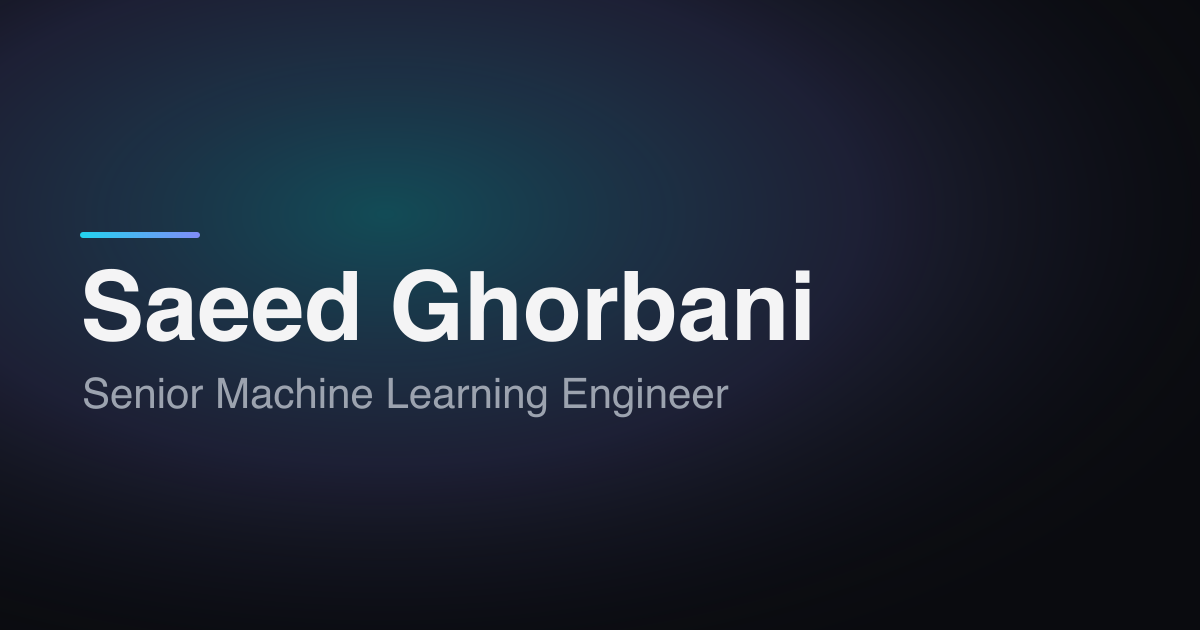
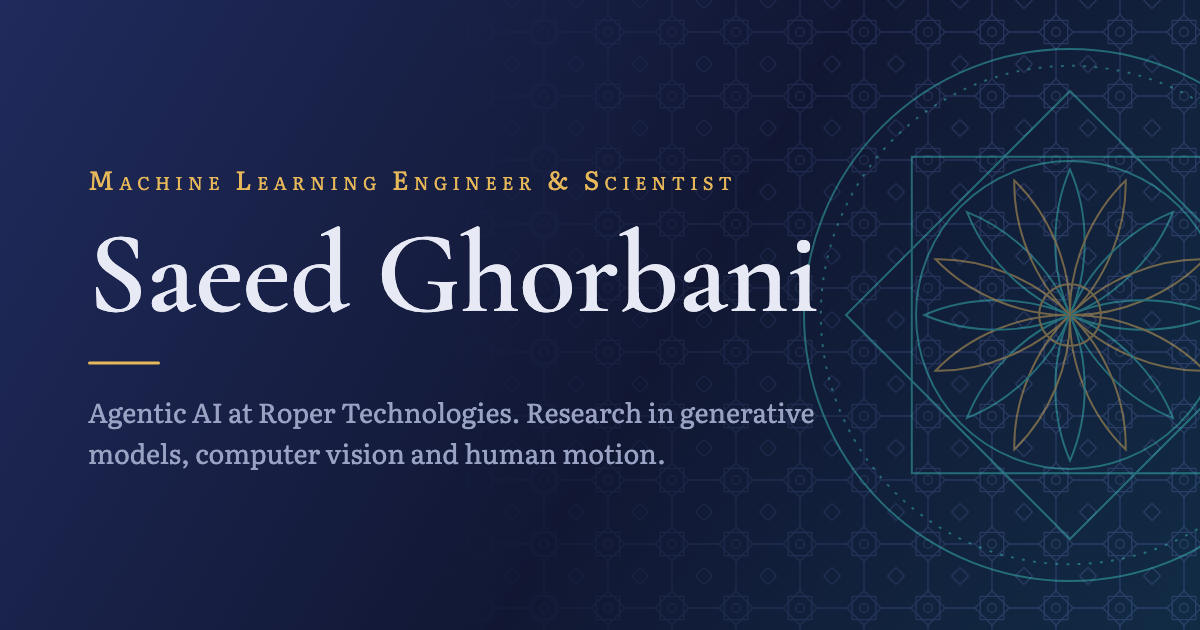
Polish pass: clearer hero, calmer motifs, even cards
- Hero: one-line summary, CV/Scholar/GitHub/Email buttons, shorter
  height, and a single fade-in for the name instead of letter-by-letter
- Use the tile band only in the hero and footer; section headings get a
  thin gold rule; drop the page-wide lattice
- Remove the custom cursor
- About: top-align the bio with the photo to close the empty gap
- Projects: every image in the same 16:10 frame, descriptions clamped,
  "Read more" links aligned to the card bottom
- News: latest five shown, the rest behind "Show all" instead of an
  inner scroll box
- New favicon (khatam star) and share image in the Isfahan look;
  gen-og.mjs renders both with the site's fonts

diff --git a/src/components/ui/modern-background-paths.tsx b/src/components/ui/modern-background-paths.tsx
@@ -73,16 +73,21 @@ function Rosette({ still }: { still: boolean }) {
   )
 }
 
+type HeroLink = { label: string; href: string; primary?: boolean }
+
 export default function EnhancedBackgroundPaths({
   title = "Isfahan",
   eyebrow = "",
+  summary = "",
+  links = [],
 }: {
   title?: string
   eyebrow?: string
+  summary?: string
+  links?: HeroLink[]
 }) {
   const still = useReducedMotion() ?? false
   const [current, setCurrent] = useState(0)
-  const words = title.split(" ")
 
   useEffect(() => {
     if (still) return
@@ -91,7 +96,7 @@ export default function EnhancedBackgroundPaths({
   }, [still])
 
   return (
-    <div className="relative min-h-screen w-full flex items-center justify-center overflow-hidden bg-transparent">
+    <div className="relative min-h-[82svh] w-full flex items-center justify-center overflow-hidden bg-transparent pt-24 pb-16">
       {/* Color wash, then the tile lattice, then the rosette */}
       <div aria-hidden="true" className="absolute inset-0" style={{ background: "var(--wash)" }} />
       {PATTERNS.map((p, i) => (
@@ -107,7 +112,7 @@ export default function EnhancedBackgroundPaths({
       <div
         aria-hidden="true"
         className="absolute inset-0"
-        style={{ background: "radial-gradient(ellipse 38% 22% at center, var(--bg) 0%, transparent 100%)", opacity: 0.85 }}
+        style={{ background: "radial-gradient(ellipse 48% 40% at center, var(--bg) 0%, transparent 100%)", opacity: 0.85 }}
       />
 
       {/* Main Content */}
@@ -125,46 +130,61 @@ export default function EnhancedBackgroundPaths({
                 animate={{ opacity: 1, y: 0 }}
                 transition={{ duration: 0.8 }}
                 className="mb-5 text-sm sm:text-base tracking-[0.25em]"
-                style={{ color: "var(--gold-text)", fontVariant: "small-caps" }}
+                style={{ color: "var(--gold-text)", fontVariant: "small-caps", marginBottom: "1.25rem" }}
               >
                 {eyebrow}
               </motion.p>
             )}
             <div className="group relative inline-block">
-              <h1
+              <motion.h1
+                initial={still ? false : { opacity: 0, y: 12 }}
+                animate={{ opacity: 1, y: 0 }}
+                transition={{ duration: 1.1, ease: "easeOut", delay: 0.15 }}
                 className="text-6xl sm:text-8xl md:text-9xl leading-none"
-                style={{ fontFamily: "var(--font-display)", fontWeight: 600 }}
+                style={{ fontFamily: "var(--font-display)", fontWeight: 600, color: "var(--text)" }}
               >
-                {words.map((word, wordIndex) => (
-                  <span key={wordIndex} className="inline-block" style={{ marginRight: wordIndex < words.length - 1 ? "0.25em" : 0 }}>
-                    {word.split("").map((letter, letterIndex) => (
-                      <motion.span
-                        key={`${wordIndex}-${letterIndex}`}
-                        initial={{ y: 100, opacity: 0, rotateX: -90 }}
-                        animate={{ y: 0, opacity: 1, rotateX: 0 }}
-                        transition={{
-                          delay: wordIndex * 0.15 + letterIndex * 0.05,
-                          type: "spring",
-                          stiffness: 100,
-                          damping: 20,
-                          duration: 0.8,
-                        }}
-                        className="inline-block cursor-default transition-colors duration-500 hover:text-[var(--accent-from)]"
-                        style={{ color: "var(--text)" }}
-                        whileHover={{ scale: 1.05, y: -2 }}
-                      >
-                        {letter}
-                      </motion.span>
-                    ))}
-                  </span>
-                ))}
-              </h1>
+                {title}
+              </motion.h1>
               {/* a mihrab arch that draws in on hover */}
               <svg aria-hidden="true" viewBox="0 0 300 24" preserveAspectRatio="none" className="pointer-events-none absolute left-0 top-full mt-3 h-5 w-full overflow-visible">
                 <path d="M0 22 C40 22, 90 16, 130 8 C140 6, 146 3, 150 1 C154 3, 160 6, 170 8 C210 16, 260 22, 300 22" pathLength={1} fill="none" strokeLinecap="round" style={{ stroke: "var(--gold)", strokeWidth: 1.6 }} className="[stroke-dasharray:1] [stroke-dashoffset:1] transition-[stroke-dashoffset] duration-700 ease-out group-hover:[stroke-dashoffset:0] motion-reduce:transition-none" />
               </svg>
             </div>
           </div>
+          {summary && (
+            <motion.p
+              initial={still ? false : { opacity: 0, y: 8 }}
+              animate={{ opacity: 1, y: 0 }}
+              transition={{ duration: 0.9, ease: "easeOut", delay: 0.5 }}
+              className="mx-auto max-w-2xl text-lg sm:text-xl leading-relaxed"
+              style={{ color: "var(--text-muted)", marginTop: "2.75rem" }}
+            >
+              {summary}
+            </motion.p>
+          )}
+          {links.length > 0 && (
+            <motion.div
+              initial={still ? false : { opacity: 0, y: 8 }}
+              animate={{ opacity: 1, y: 0 }}
+              transition={{ duration: 0.9, ease: "easeOut", delay: 0.7 }}
+              className="flex flex-wrap items-center justify-center gap-3"
+              style={{ marginTop: "2rem" }}
+            >
+              {links.map((l) => {
+                const external = l.href.startsWith("http")
+                return (
+                  <a
+                    key={l.label}
+                    href={l.href}
+                    {...(external ? { target: "_blank", rel: "noopener" } : {})}
+                    className={`hero-btn${l.primary ? " hero-btn--primary" : ""}`}
+                  >
+                    {l.label}
+                  </a>
+                )
+              })}
+            </motion.div>
+          )}
         </motion.div>
       </div>
     </div>

diff --git a/src/styles/global.css b/src/styles/global.css
@@ -30,21 +30,8 @@ h1, h2 { font-weight: 600; letter-spacing: 0; }
 h3 { font-family: var(--font-body); font-weight: 650; line-height: 1.25; }
 ::selection { background: color-mix(in srgb, var(--accent-from) 22%, transparent); }
 em, i { color: var(--gold-text); }
-
-/* A faint lattice over the whole page background. */
 /* The tile bands bleed past the container; never let them widen the page. */
-body { position: relative; overflow-x: clip; }
-body::before {
-  content: "";
-  position: fixed;
-  inset: 0;
-  z-index: -1;
-  pointer-events: none;
-  background: var(--tile);
-  opacity: calc(var(--tile-o) * 0.2);
-  -webkit-mask: var(--girih) 0 0 / 64px 64px;
-  mask: var(--girih) 0 0 / 64px 64px;
-}
+body { overflow-x: clip; }
 
 /* Tile band: a color wash with the lattice on top, fading down and at
    the sides. Add .tile-band to any positioned block. */

diff --git a/src/data/site.ts b/src/data/site.ts
@@ -8,6 +8,8 @@ export const site = {
   email: 'saeed.ghorbani1262@gmail.com',
   description:
     'Senior machine learning engineer at Roper working on agentic AI, with a research background in deep learning, computer vision, and generative models.',
+  summary:
+    'I build agentic AI systems at Roper Technologies, drawing on a research background in generative models, computer vision and human motion.',
   url: 'https://saeed1262.github.io',
   links: {
     github: 'https://github.com/saeed1262',
